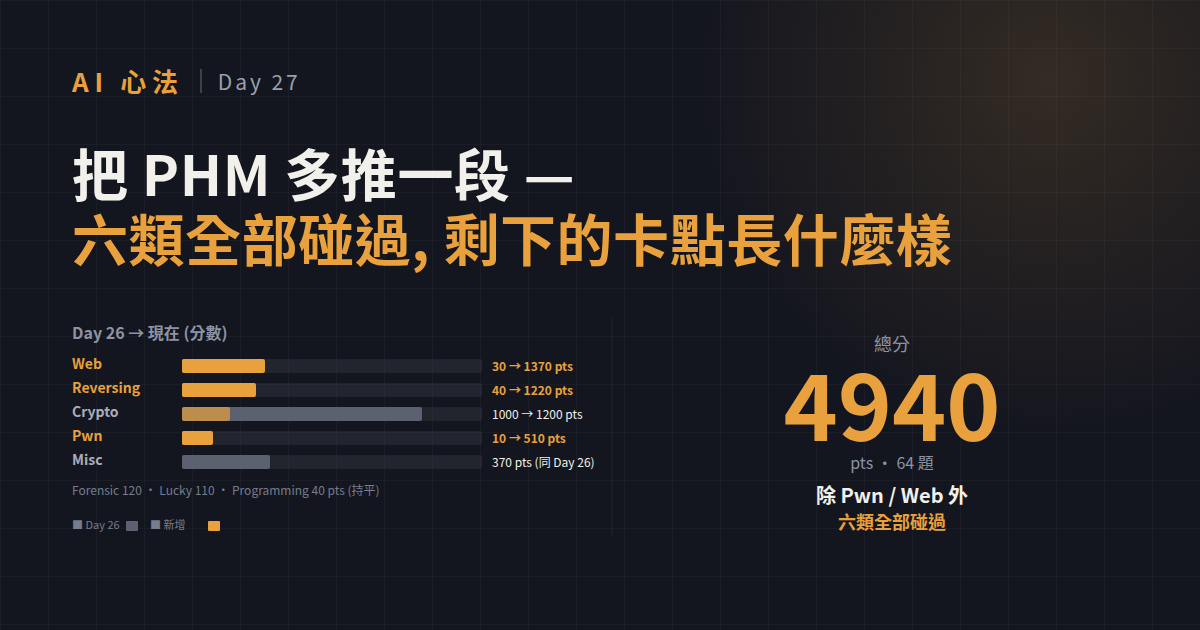
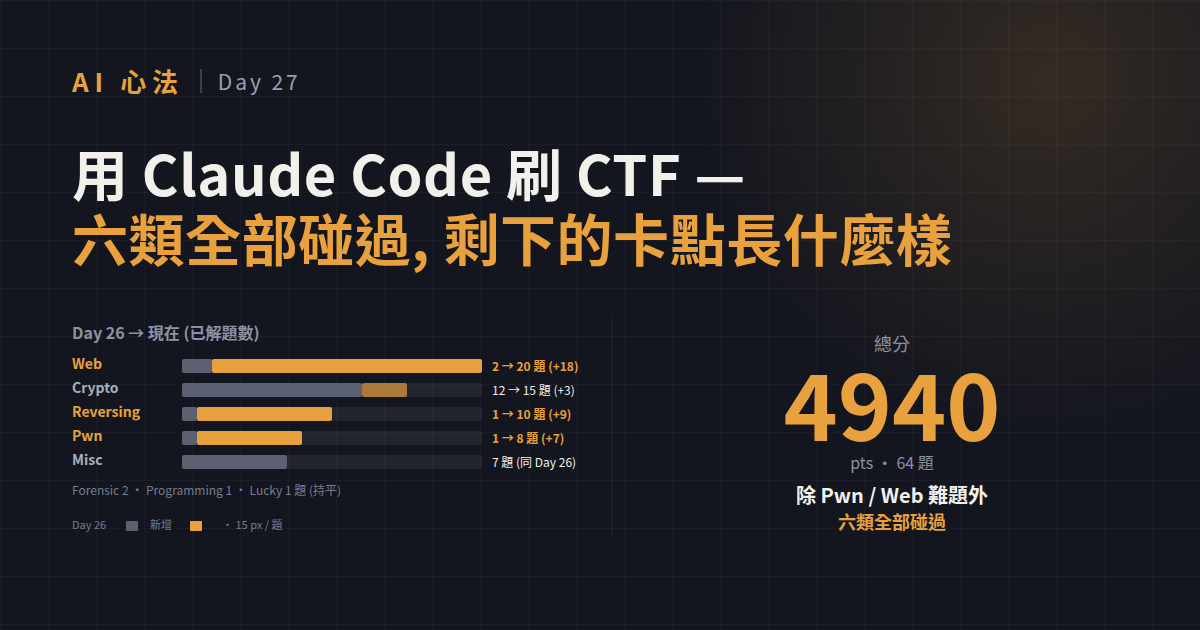
ironman day27 cover: 改標題 + 改 pitch + bar 改以題數
- 主標 "把 PHM 多推一段" → "用 Claude Code 刷 CTF" (跟 Day 26 同系列拉齊)
- 右欄 pitch "除 Pwn / Web 外" → "除 Pwn / Web 難題外" (更精準, 不是整類略掉)
- bar chart 從 pts 換成題數 (15 px/題): Web 2→20, Crypto 12→15, Reversing 1→10, Pwn 1→8, Misc 7 持平; 新增圖例註明比例

diff --git a/05-notes/ironman/assets/day26-30/cover-day27.html b/05-notes/ironman/assets/day26-30/cover-day27.html
@@ -23,55 +23,56 @@ text{font-family:"Noto Sans CJK TC",sans-serif}
 <div class="wrap">
   <div class="top"><span class="mark">AI 心法</span><span class="bar"></span><span class="day">Day 27</span></div>
   <div>
-    <h1>把 PHM 多推一段 —<br><em>六類全部碰過, 剩下的卡點長什麼樣</em></h1>
+    <h1>用 Claude Code 刷 CTF —<br><em>六類全部碰過, 剩下的卡點長什麼樣</em></h1>
   </div>
   <div class="chartwrap">
   <svg width="1056" height="240" viewBox="0 0 1056 240">
-    <!-- 左半: Day 26 → 現在的分數對照 -->
-    <text x="0" y="22" fill="#8b93a5" font-size="16" font-weight="700">Day 26 → 現在 (分數)</text>
+    <!-- 左半: Day 26 → 現在的題目數對照 (15px / 題) -->
+    <text x="0" y="22" fill="#8b93a5" font-size="16" font-weight="700">Day 26 → 現在 (已解題數)</text>
 
-    <!-- Web -->
+    <!-- Web: 2 → 20 -->
     <text x="0" y="52" fill="#e8a13c" font-size="14" font-weight="900">Web</text>
     <rect x="110" y="42" width="300" height="14" rx="2" fill="#5b617033"/>
-    <rect x="110" y="42" width="6" height="14" rx="2" fill="#5b6170"/>
-    <rect x="110" y="42" width="83" height="14" rx="2" fill="#e8a13c"/>
-    <text x="420" y="54" fill="#e8a13c" font-size="12" font-weight="700">30 → 1370 pts</text>
+    <rect x="110" y="42" width="30" height="14" rx="2" fill="#5b6170"/>
+    <rect x="140" y="42" width="270" height="14" rx="2" fill="#e8a13c"/>
+    <text x="420" y="54" fill="#e8a13c" font-size="12" font-weight="700">2 → 20 題 (+18)</text>
 
-    <!-- Reversing -->
-    <text x="0" y="76" fill="#e8a13c" font-size="14" font-weight="900">Reversing</text>
+    <!-- Crypto: 12 → 15 -->
+    <text x="0" y="76" fill="#a8aebd" font-size="14" font-weight="700">Crypto</text>
     <rect x="110" y="66" width="300" height="14" rx="2" fill="#5b617033"/>
-    <rect x="110" y="66" width="9" height="14" rx="2" fill="#5b6170"/>
-    <rect x="110" y="66" width="74" height="14" rx="2" fill="#e8a13c"/>
-    <text x="420" y="78" fill="#e8a13c" font-size="12" font-weight="700">40 → 1220 pts</text>
+    <rect x="110" y="66" width="180" height="14" rx="2" fill="#5b6170"/>
+    <rect x="290" y="66" width="45" height="14" rx="2" fill="#e8a13cb0"/>
+    <text x="420" y="78" fill="#f2f0ea" font-size="12">12 → 15 題 (+3)</text>
 
-    <!-- Crypto -->
-    <text x="0" y="100" fill="#a8aebd" font-size="14" font-weight="700">Crypto</text>
+    <!-- Reversing: 1 → 10 -->
+    <text x="0" y="100" fill="#e8a13c" font-size="14" font-weight="900">Reversing</text>
     <rect x="110" y="90" width="300" height="14" rx="2" fill="#5b617033"/>
-    <rect x="110" y="90" width="240" height="14" rx="2" fill="#5b6170"/>
-    <rect x="110" y="90" width="48" height="14" rx="2" fill="#e8a13cb0"/>
-    <text x="420" y="102" fill="#f2f0ea" font-size="12">1000 → 1200 pts</text>
+    <rect x="110" y="90" width="15" height="14" rx="2" fill="#5b6170"/>
+    <rect x="125" y="90" width="135" height="14" rx="2" fill="#e8a13c"/>
+    <text x="420" y="102" fill="#e8a13c" font-size="12" font-weight="700">1 → 10 題 (+9)</text>
 
-    <!-- Pwn -->
+    <!-- Pwn: 1 → 8 -->
     <text x="0" y="124" fill="#e8a13c" font-size="14" font-weight="900">Pwn</text>
     <rect x="110" y="114" width="300" height="14" rx="2" fill="#5b617033"/>
-    <rect x="110" y="114" width="2" height="14" rx="2" fill="#5b6170"/>
-    <rect x="110" y="114" width="31" height="14" rx="2" fill="#e8a13c"/>
-    <text x="420" y="126" fill="#e8a13c" font-size="12" font-weight="700">10 → 510 pts</text>
+    <rect x="110" y="114" width="15" height="14" rx="2" fill="#5b6170"/>
+    <rect x="125" y="114" width="105" height="14" rx="2" fill="#e8a13c"/>
+    <text x="420" y="126" fill="#e8a13c" font-size="12" font-weight="700">1 → 8 題 (+7)</text>
 
-    <!-- Misc -->
+    <!-- Misc: 7 → 7 -->
     <text x="0" y="148" fill="#a8aebd" font-size="14" font-weight="700">Misc</text>
     <rect x="110" y="138" width="300" height="14" rx="2" fill="#5b617033"/>
-    <rect x="110" y="138" width="88" height="14" rx="2" fill="#5b6170"/>
-    <text x="420" y="150" fill="#f2f0ea" font-size="12">370 pts (同 Day 26)</text>
+    <rect x="110" y="138" width="105" height="14" rx="2" fill="#5b6170"/>
+    <text x="420" y="150" fill="#f2f0ea" font-size="12">7 題 (同 Day 26)</text>
 
-    <!-- Forensic / Programming / Lucky 併一行 -->
-    <text x="0" y="178" fill="#767d8d" font-size="12">Forensic 120 · Lucky 110 · Programming 40 pts (持平)</text>
+    <!-- Forensic / Programming / Lucky -->
+    <text x="0" y="178" fill="#767d8d" font-size="12">Forensic 2 · Programming 1 · Lucky 1 題 (持平)</text>
 
     <!-- 圖例 -->
-    <text x="0" y="212" fill="#767d8d" font-size="11">■ Day 26</text>
+    <text x="0" y="212" fill="#767d8d" font-size="11">Day 26</text>
     <rect x="54" y="204" width="12" height="10" rx="1" fill="#5b6170"/>
-    <text x="78" y="212" fill="#767d8d" font-size="11">■ 新增</text>
-    <rect x="136" y="204" width="12" height="10" rx="1" fill="#e8a13c"/>
+    <text x="78" y="212" fill="#767d8d" font-size="11">新增</text>
+    <rect x="118" y="204" width="12" height="10" rx="1" fill="#e8a13c"/>
+    <text x="150" y="212" fill="#767d8d" font-size="11">· 15 px / 題</text>
 
     <!-- Divider -->
     <line x1="540" y1="0" x2="540" y2="220" stroke="#5b617033" stroke-width="1"/>
@@ -80,7 +81,7 @@ text{font-family:"Noto Sans CJK TC",sans-serif}
     <text x="820" y="34" fill="#8b93a5" font-size="18" text-anchor="middle">總分</text>
     <text x="820" y="124" fill="#e8a13c" font-size="92" font-weight="900" text-anchor="middle">4940</text>
     <text x="820" y="152" fill="#8b93a5" font-size="16" text-anchor="middle">pts · 64 題</text>
-    <text x="820" y="186" fill="#f2f0ea" font-size="20" font-weight="700" text-anchor="middle">除 Pwn / Web 外</text>
+    <text x="820" y="186" fill="#f2f0ea" font-size="20" font-weight="700" text-anchor="middle">除 Pwn / Web 難題外</text>
     <text x="820" y="212" fill="#e8a13c" font-size="18" font-weight="900" text-anchor="middle">六類全部碰過</text>
   </svg>
   </div>
